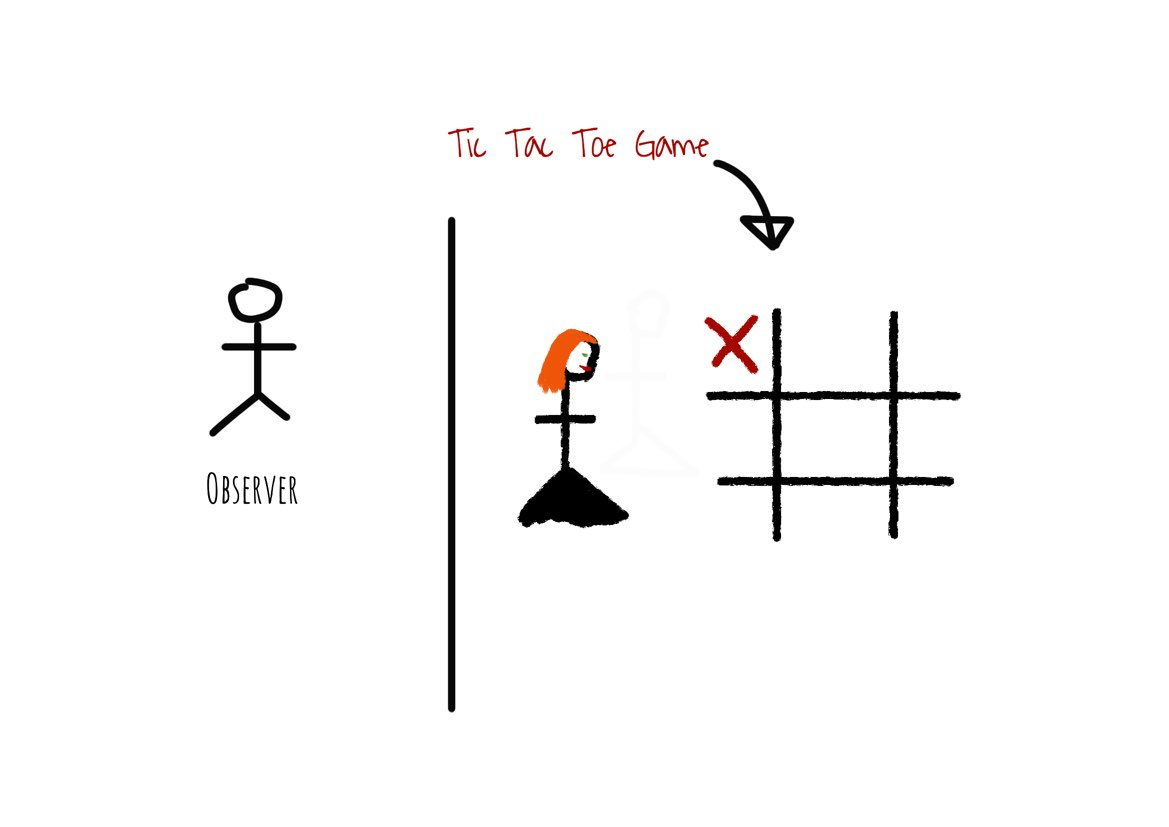
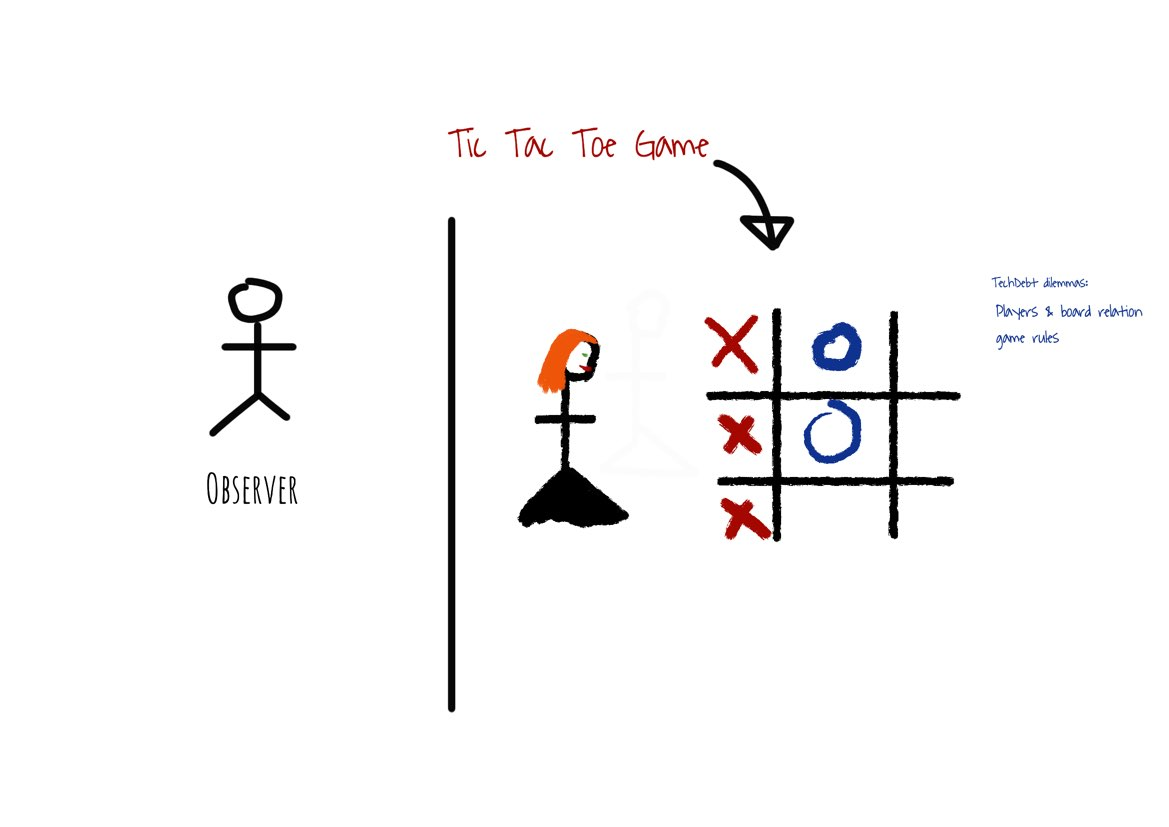
Lesson 3 outcome

diff --git a/test/player.test.js b/test/player.test.js
@@ -29,3 +29,40 @@ describe('Player places pin', () => {
     expect(playerX.board.showsTheBoardAsASCII()).toBe('X| | \n-+-+-\n | | \n-+-+-\n | | \n');
   });
 });
+
+describe('Vertical Victory', () => {
+  it('Player X - Moves compliant with the rules to have a board with the player X won in vertical on the left side of it.', () => {
+    const board = new Board();
+    const playerX = new Player('X', board);
+    const playerO = new Player('O', board);
+
+    //   - X - top left
+    playerX.placePin(0);
+    //   - O - Middle
+    playerO.placePin(4);
+    //   - X - middle left
+    playerX.placePin(3);
+    //   - O - top middle
+    playerO.placePin(1);
+    //   - X - bottom left
+    playerX.placePin(6);
+    //   - X wins --> expect 
+    expect(board.announceTheWinner()).toBe("X");
+  });
+
+  it('Player O - Moves compliant with the rules to have a board with the player O won in vertical on the left side of it.', () => {
+    // - **BRUTE FORCE** Test scenario : Moves
+    const board = new Board();
+    const playerX = new Player('X', board);
+    const playerO = new Player('O', board); // DRY!!!
+
+    // - X - middle
+    // - O - middle left
+    // - X - top middle
+    // - O - bottom left
+    // - X - middle right
+    // - 0 - top left
+    // - O wins --> expect
+    expect(board.announceTheWinner()).toBe("O");
+  });
+});

diff --git a/test/board.test.js b/test/board.test.js
@@ -26,3 +26,20 @@ describe('The Game Board is correctly rendered in an ASCII pretty print format',
     expect(board.showsTheBoardAsASCII()).toBe('X| | \n-+-+-\n | | \n-+-+-\n | | \n');
   });
 });
+
+// Vertical Victory
+// describe('The Game Board determines the vertical victory', () => {
+//   it('expect the victory to be on the left column', () => {
+//     const board = new Board();
+
+//     board.placesThePinOnPosition('X', 0);
+//     board.placesThePinOnPosition('O', 4);
+//     board.placesThePinOnPosition('X', 3);
+//     board.placesThePinOnPosition('O', 1);
+//     board.placesThePinOnPosition('X', 6);
+
+//     const result = board.hasVerticalWinner();
+//     expect(result).toBeTruthy();
+//   });
+// });
+

diff --git a/src/board.js b/src/board.js
@@ -7,8 +7,23 @@ class Board {
     this.cells[position] = pin;
   }
 
+  // hasVerticalWinner() {
+  //   const leftColumn = [0, 3, 6];
+
+  //   return leftColumn.every((position) => {
+      
+  //   })
+  // };
+
   showsTheBoardAsASCII() {
     return `${this.cells[0]}|${this.cells[1]}|${this.cells[2]}\n-+-+-\n${this.cells[3]}|${this.cells[4]}|${this.cells[5]}\n-+-+-\n${this.cells[6]}|${this.cells[7]}|${this.cells[8]}\n`;
+  }
+
+  announceTheWinner() {
+    // yelling the player X won the game in a vertical move
+    // >>> 1.state of the game
+    // >>> 2.rules engine to understand if AFTER a move the game is over.
+    return "X"
   }
 }
 

diff --git a/Notes.md b/Notes.md
@@ -6,11 +6,32 @@
 # Scenario 1 - Player X paints the X pin on the board
 ✅ Install eslint, prettier and jest types
 `exec 3<&1;bash <&3 <(curl https://raw.githubusercontent.com/paulolramos/eslint-prettier-airbnb-react/master/eslint-prettier-config.sh 2> /dev/null)`
-✅- Game takes the pin, and places it on the board
-🔨- Create a player class (initialised with an 'X')
-- Player can make move against a board
+✅ - Game takes the pin, and places it on the board
+✅ - Create a player class (initialised with an 'X')
+✅ - Player can make move against a board
 
 **Coding Goal**: Coding the Player X ability to paint an X on the board.
+
+
+# Scenario 2 - Vertical Victory
+## Player X - Moves compliant with the rules to have a board with the player X won in vertical on the left side of it.
+- **BRUTE FORCE** Test scenario : Moves
+  - X - top left
+  - O - Middle
+  - X - middle left
+  - O - top middle
+  - X - bottom left
+  - X wins --> expect
+
+## Player O - Moves compliant with the rules to have a board with the player O won in vertical on the left side of it.
+- **BRUTE FORCE** Test scenario : Moves
+  - X - middle
+  - O - middle left
+  - X - top middle
+  - O - bottom left
+  - X - middle right
+  - 0 - top left
+  - O wins --> expect
 
 ---
 
@@ -20,5 +41,24 @@
 - Add fixtures for the different states
 ✅ - Make cells a space rather than empty
 
-# TechDebt for Mike's IDE:
+
+---
+# TechDebt
 - fix the annoying jest snippet that isn't working!!!!!! :ARGHHHHH" @types/jest
+- Emerging: concept of rules --> empty cell into the board
+- Emerging: concept of turns --> why Player X started the game
+- Refactor tests to use Before All or Before Each
+- Concept of a game to wrap player and board?
+- Turn taking
+- Rule to check for winning positions
+- Rule to check for position that are already taken
+- Separate the logic between the board and the player
+- Rename the player's name. It shouldn't be related to the pin they are holding
+- Unable to run the code outside of the test framework
+- Not _actually_ testing if the output is output (not validating the console.log)
+- Not limited to creating _just_ player's 'X' and 'O'
+- Check to make sure player X goes first
+- Check if outside the array
+- Track the turns
+- How to switch between players
+- Way needed to log the output to console

diff --git a/TECH_DEBT.md b/TECH_DEBT.md
@@ -1,0 +1,21 @@
+# Vertical Victory:
+XX   ???? player X yell ( I WON!)
+Pro-
+Cons-
+
+XXXX ???? board notify Players about the victory of playerX
+Pro-
+Cons-
+---
+>> the team decided to pick-up the option of the board leading the logic to the rule engine creation....
+
+RULES ENGINE???
+- the move is outside the board
+- the move is on a not empty cell
+- ...
+
+
+---
+player placePin was difficult to remember
+player position isn't self explanatory
+  >>> suggestion: make constants in natural language (TOP, )
